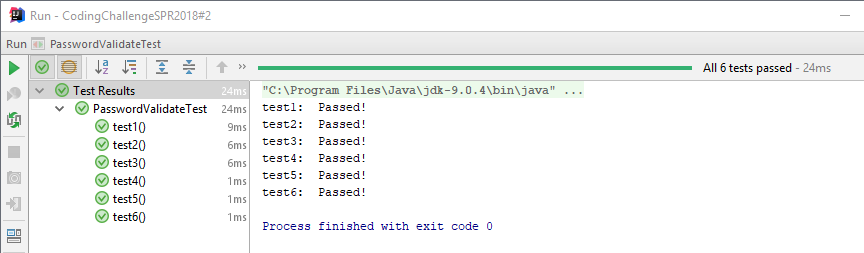
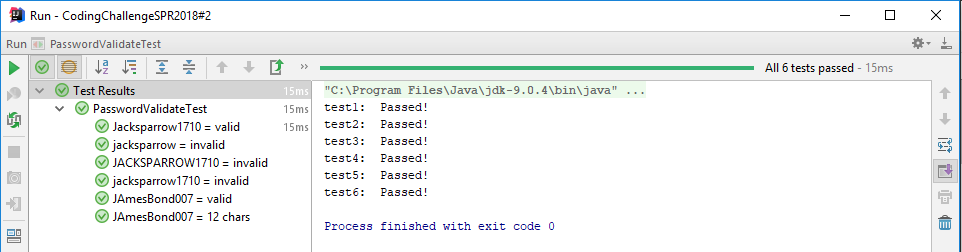
unit test

diff --git a/src/PasswordValidateTest.java b/src/PasswordValidateTest.java
@@ -1,5 +1,6 @@
 import static org.junit.jupiter.api.Assertions.assertEquals;
 
+import org.junit.jupiter.api.DisplayName;
 import org.junit.jupiter.api.Test;
 
 import java.util.ArrayList;
@@ -12,6 +13,7 @@ class PasswordValidateTest {
     Pattern testPattern;
 
     @Test
+    @DisplayName("Jacksparrow1710 = valid")
     void test1(){
         testPattern = Pattern.compile(PasswordValidate.PASSWORD_REQUIREMENTS);
         String password = "Jacksparrow1710";
@@ -23,6 +25,7 @@ class PasswordValidateTest {
     }
 
     @Test
+    @DisplayName("jacksparrow = invalid")
     void test2(){
         testPattern = Pattern.compile(PasswordValidate.PASSWORD_REQUIREMENTS);
         String password = "jacksparrow";
@@ -34,6 +37,7 @@ class PasswordValidateTest {
     }
 
     @Test
+    @DisplayName("JACKSPARROW1710 = invalid")
     void test3(){
         testPattern = Pattern.compile(PasswordValidate.PASSWORD_REQUIREMENTS);
         String password = "JACKSPARROW1710";
@@ -45,6 +49,7 @@ class PasswordValidateTest {
     }
 
     @Test
+    @DisplayName("jacksparrow1710 = invalid")
     void test4(){
         testPattern = Pattern.compile(PasswordValidate.PASSWORD_REQUIREMENTS);
         String password = "jacksparrow1710";
@@ -56,6 +61,7 @@ class PasswordValidateTest {
     }
 
     @Test
+    @DisplayName("JAmesBond007 = valid")
     void test5(){
         testPattern = Pattern.compile(PasswordValidate.PASSWORD_REQUIREMENTS);
         String password = "JAmesBond007";
@@ -67,6 +73,7 @@ class PasswordValidateTest {
     }
 
     @Test
+    @DisplayName("JAmesBond007 = 12 chars")
     void test6(){
         ArrayList<String> pass = new ArrayList<>();
         pass.add("JAmesBond007");
